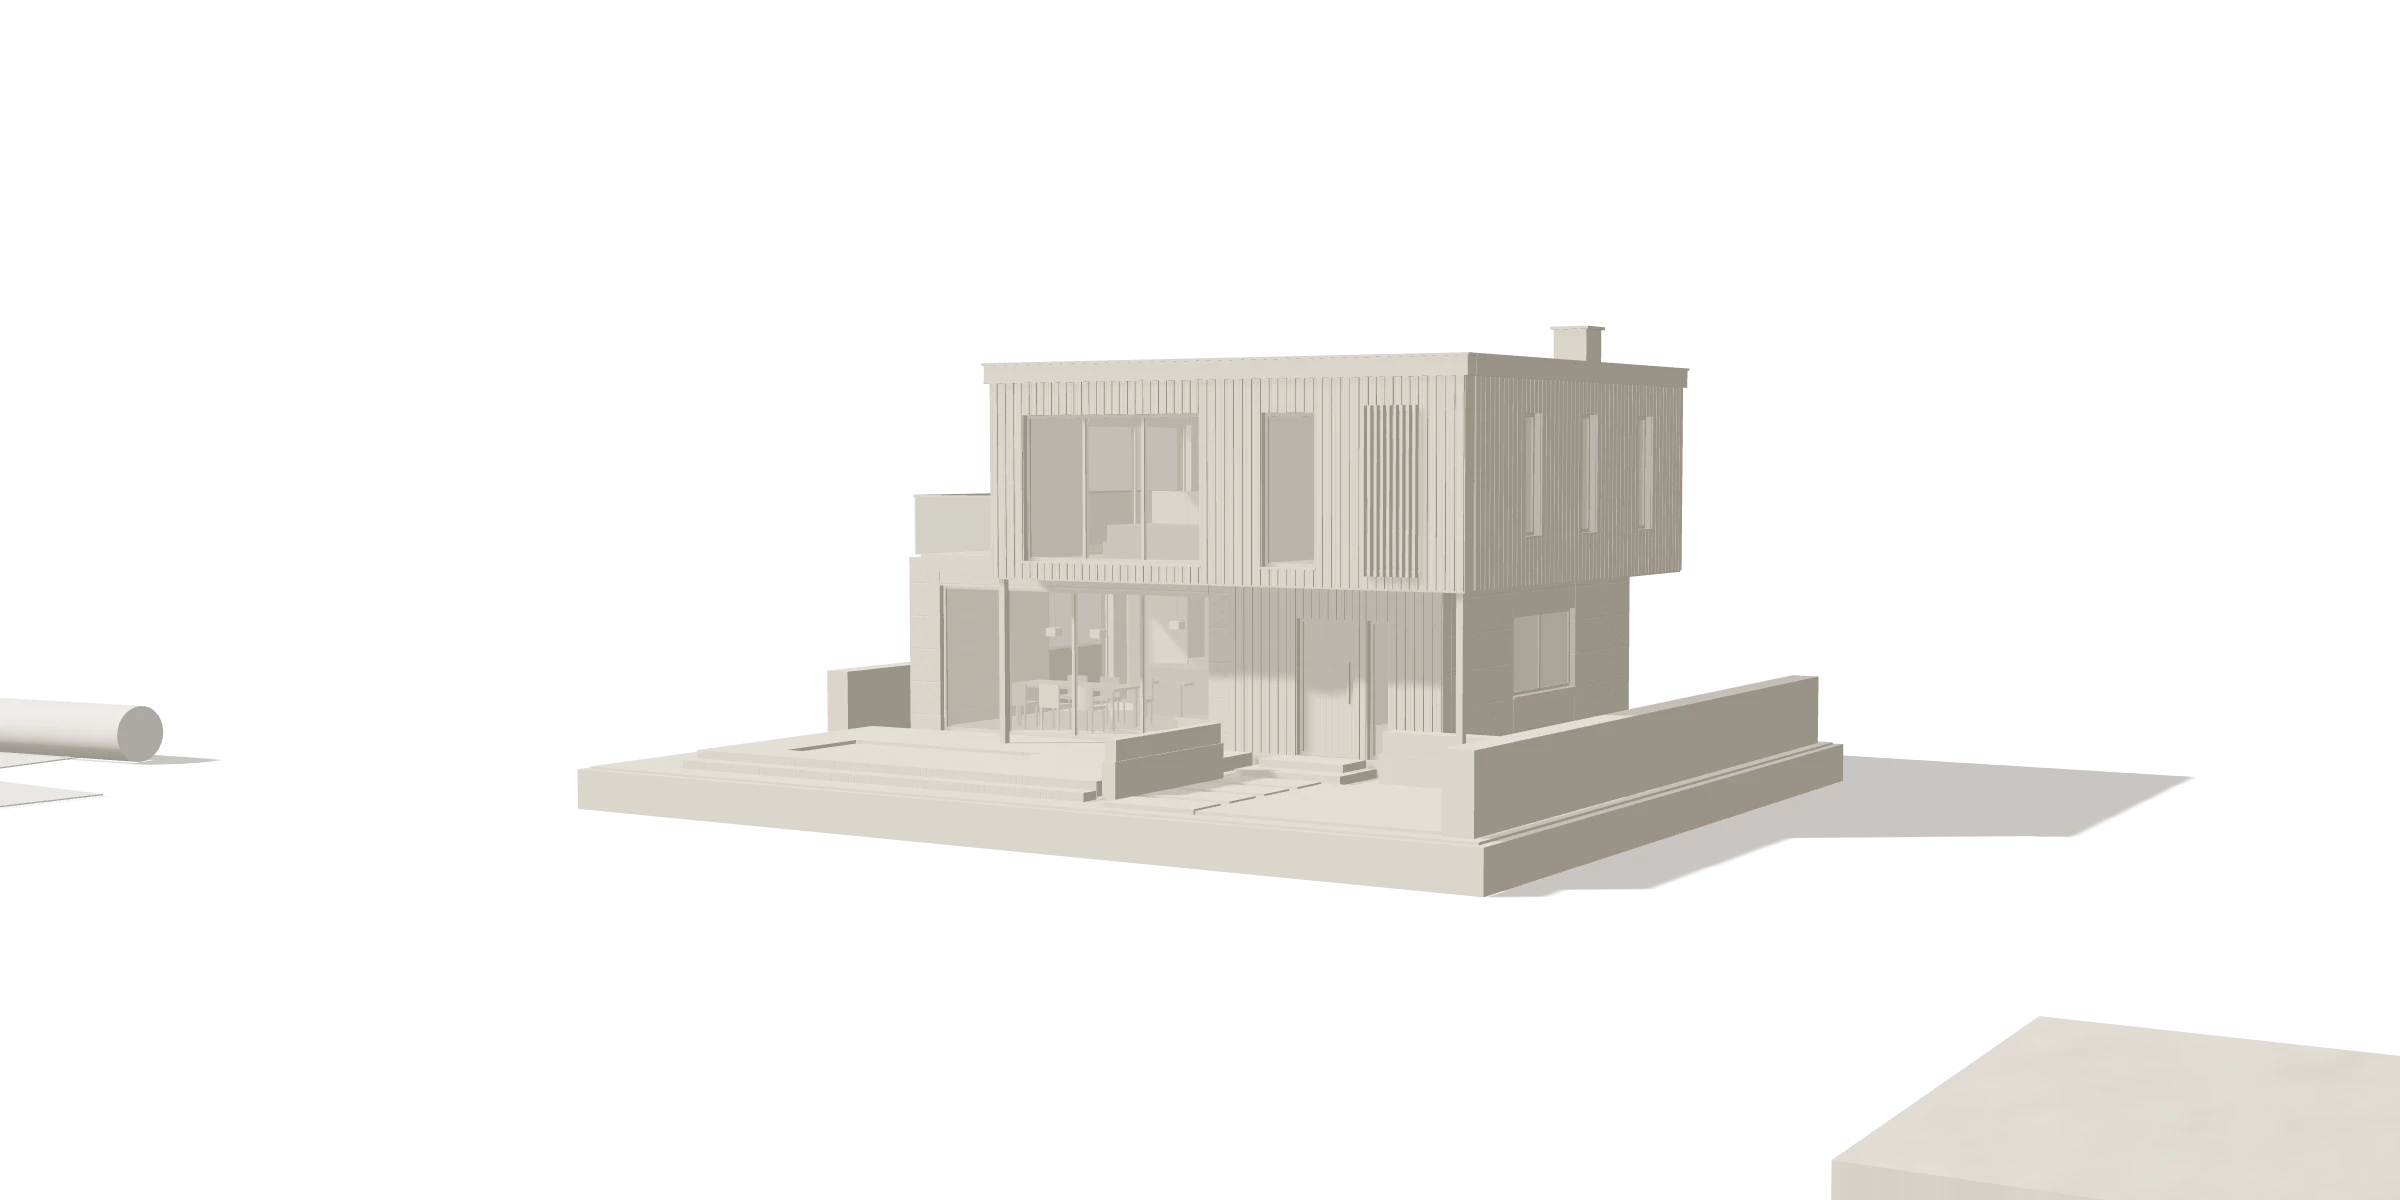
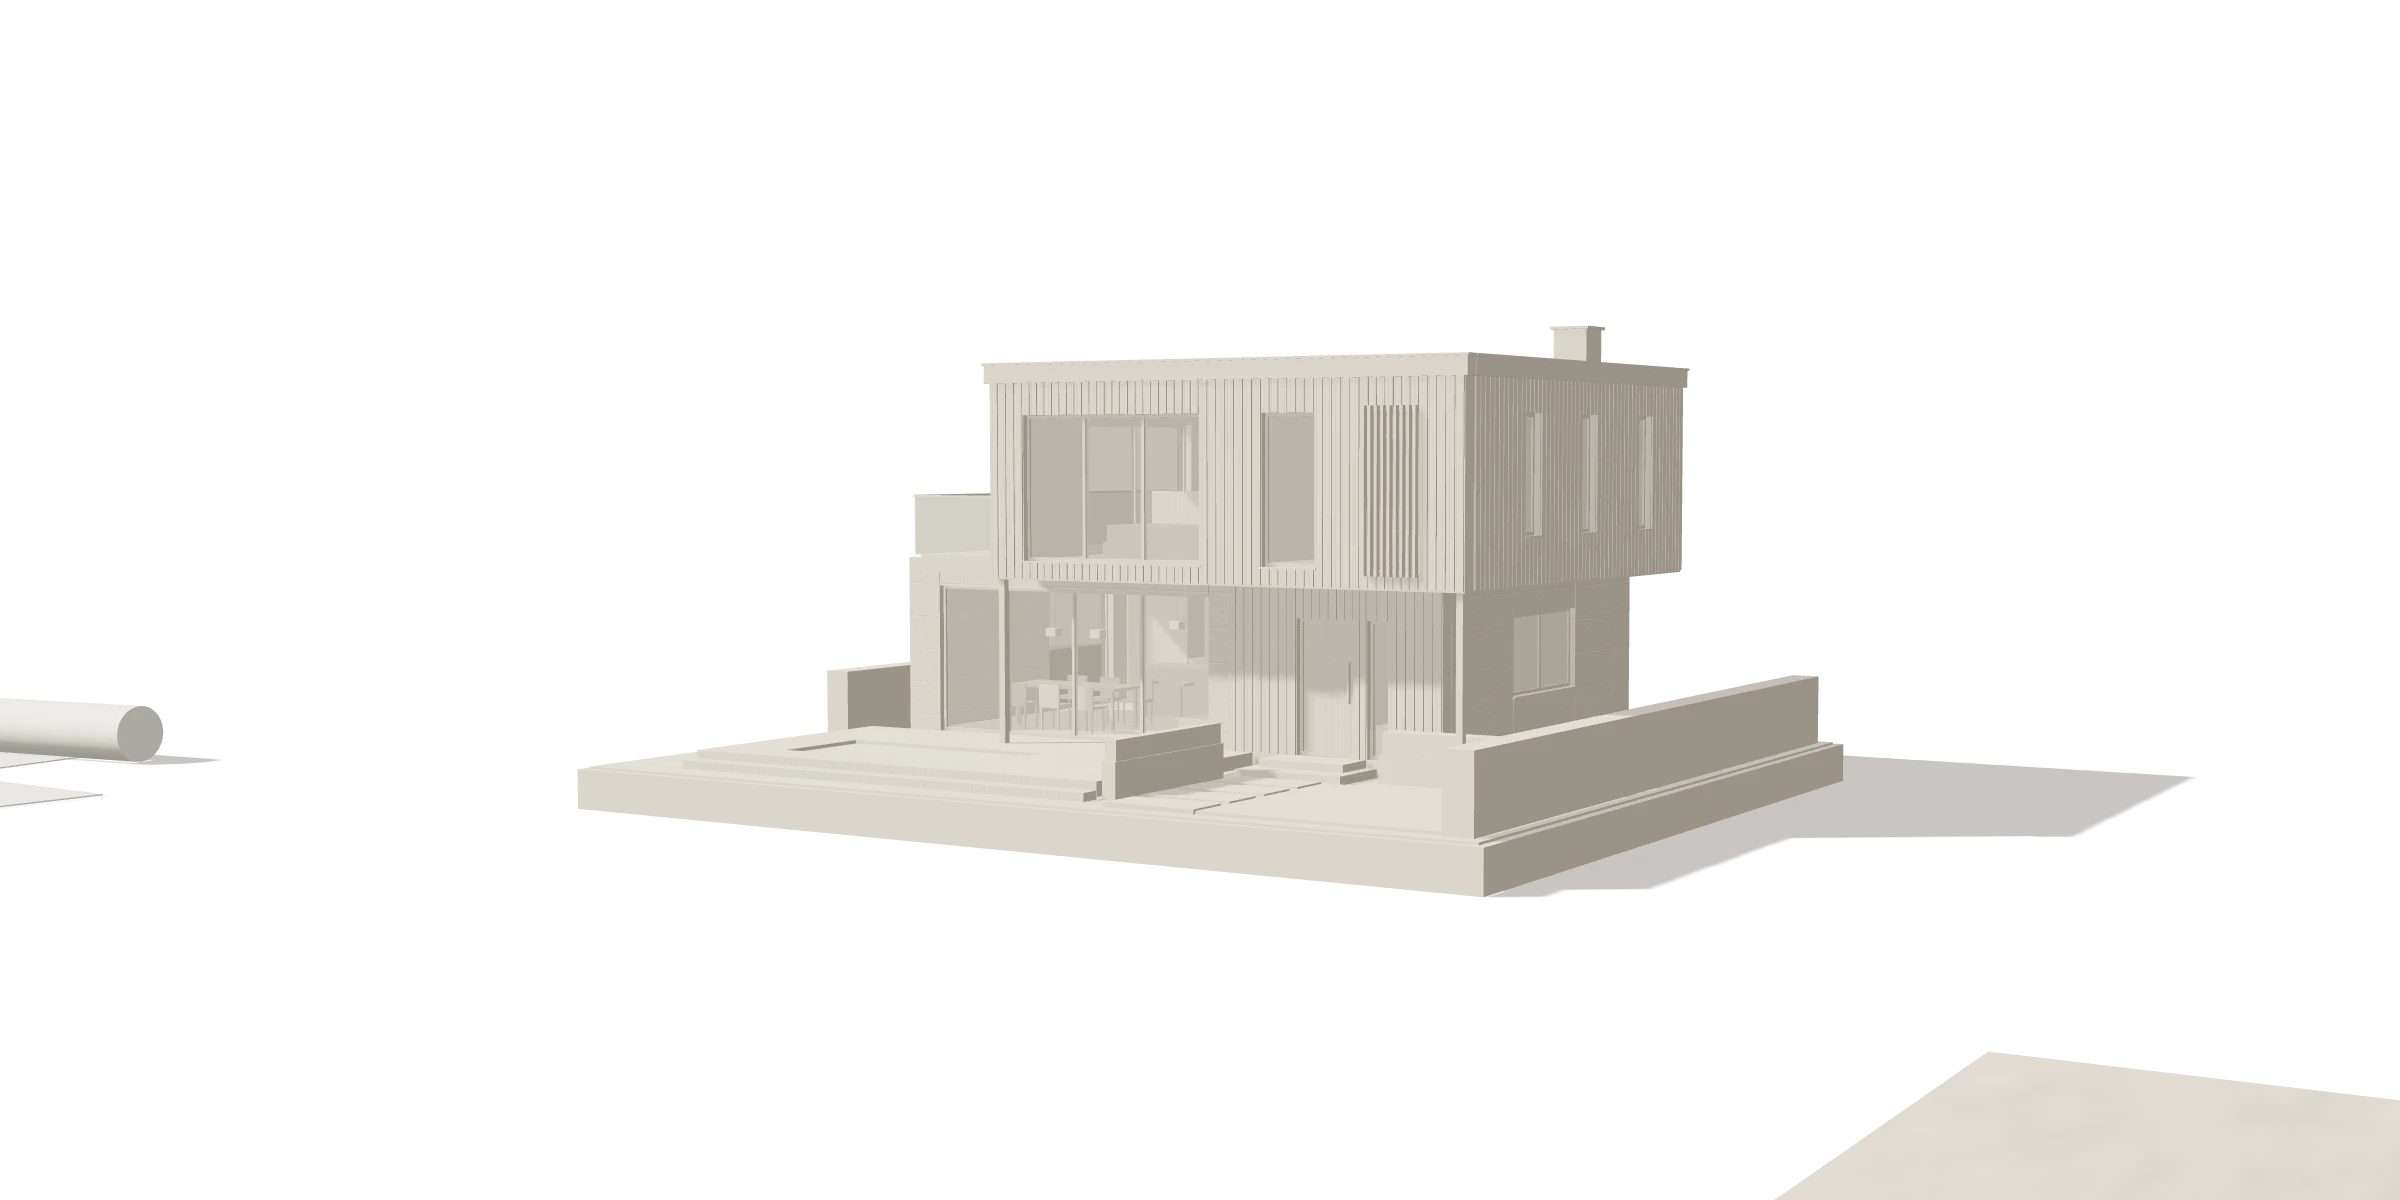
fix(v5): échantillons hors du cadre d'ouverture, images de repli, README
Claude-Session: https://claude.ai/code/session_01Qf6vpkEiqfPwkLY4FHYUhu

Changed region(s): [[0.8125, 0.8325, 1.0, 0.925], [0.7188, 0.9558, 0.7812, 1.0]]

diff --git a/src/components/experience/scene/storyboard.js b/src/components/experience/scene/storyboard.js
@@ -39,8 +39,8 @@ const LANDSCAPE = [
   { at: 0.2, az: -16, el: 48, dist: 43, tx: -24.5, ty: -0.7, tz: 17.5, sx: 0.2, sy: -0.03, draw: 1, explode: 0, wipe: 0, dusk: 0 },
   { at: 0.27, az: -11, el: 45, dist: 42, tx: -24, ty: -0.7, tz: 17.5, sx: 0.2, sy: -0.03, draw: 1, explode: 0, wipe: 0, dusk: 0 },
   // Préparer : elle redescend et rase les échantillons
-  { at: 0.38, az: 34, el: 21, dist: 29, tx: 23.5, ty: -0.2, tz: 20, sx: 0.09, draw: 1, explode: 0, wipe: 0, dusk: 0 },
-  { at: 0.45, az: 27, el: 19, dist: 28, tx: 23.5, ty: -0.2, tz: 20, sx: 0.09, draw: 1, explode: 0, wipe: 0, dusk: 0 },
+  { at: 0.38, az: 34, el: 21, dist: 29, tx: 23.5, ty: -0.2, tz: 21.8, sx: 0.09, draw: 1, explode: 0, wipe: 0, dusk: 0 },
+  { at: 0.45, az: 27, el: 19, dist: 28, tx: 23.5, ty: -0.2, tz: 21.8, sx: 0.09, draw: 1, explode: 0, wipe: 0, dusk: 0 },
   // Rénover : retour à la maquette, qui s'ouvre
   { at: 0.56, az: -36, el: 24, dist: 66, tx: 0, ty: 7.2, tz: 0, sx: 0.1, draw: 1, explode: 1, wipe: 0, dusk: 0 },
   { at: 0.64, az: -30, el: 22, dist: 66, tx: 0, ty: 7.2, tz: 0, sx: 0.1, draw: 1, explode: 1, wipe: 0.12, dusk: 0 },
@@ -58,8 +58,8 @@ const PORTRAIT = [
   { at: 0.07, az: 38, el: 7, dist: 98, tx: 0, ty: 3.6, tz: 0.5, sy: -0.14, draw: 0, explode: 0, wipe: 0, dusk: 0 },
   { at: 0.2, az: -8, el: 58, dist: 84, tx: -26, ty: -0.7, tz: 18.5, sy: -0.15, draw: 1, explode: 0, wipe: 0, dusk: 0 },
   { at: 0.27, az: -4, el: 55, dist: 82, tx: -26, ty: -0.7, tz: 18.5, sy: -0.15, draw: 1, explode: 0, wipe: 0, dusk: 0 },
-  { at: 0.38, az: 30, el: 32, dist: 66, tx: 23.8, ty: -0.2, tz: 20.4, sy: -0.15, draw: 1, explode: 0, wipe: 0, dusk: 0 },
-  { at: 0.45, az: 24, el: 30, dist: 64, tx: 23.8, ty: -0.2, tz: 20.4, sy: -0.15, draw: 1, explode: 0, wipe: 0, dusk: 0 },
+  { at: 0.38, az: 30, el: 32, dist: 66, tx: 23.8, ty: -0.2, tz: 22.2, sy: -0.15, draw: 1, explode: 0, wipe: 0, dusk: 0 },
+  { at: 0.45, az: 24, el: 30, dist: 64, tx: 23.8, ty: -0.2, tz: 22.2, sy: -0.15, draw: 1, explode: 0, wipe: 0, dusk: 0 },
   { at: 0.56, az: -42, el: 22, dist: 104, tx: 0, ty: 7.2, tz: 0, sy: -0.16, draw: 1, explode: 1, wipe: 0, dusk: 0 },
   { at: 0.64, az: -36, el: 20, dist: 104, tx: 0, ty: 7.2, tz: 0, sy: -0.16, draw: 1, explode: 1, wipe: 0.12, dusk: 0 },
   { at: 0.8, az: 30, el: 10, dist: 92, tx: 0, ty: 3.8, tz: 0.5, sy: -0.15, draw: 1, explode: 0, wipe: 1, dusk: 0 },

diff --git a/src/components/experience/scene/atelier.js b/src/components/experience/scene/atelier.js
@@ -414,7 +414,7 @@ export function createAtelier(T, { anisotropy = 4 } = {}) {
 
   /* ---------- Échantillons ---------- */
   /* Disposés en damier devant la maquette, à droite ; `at` décale l'ensemble. */
-  const at = ([x0, x1, z0, z1]) => [x0 + 3.4, x1 + 3.4, z0 + 12.4, z1 + 12.4];
+  const at = ([x0, x1, z0, z1]) => [x0 + 3.4, x1 + 3.4, z0 + 14.2, z1 + 14.2];
   const SAMPLES = [
     // clé, emprise [x0, x1, z0, z1], épaisseur, texture, fenêtre [u0, u1, v0, v1], réglages
     ['pierre', at([14.2, 19.4, 2.4, 8.6]), 0.42, 'stone', [0.28, 0.72, 0.03, 0.22], { roughness: 0.82, bumpMap: 'stoneBump', bumpScale: 1.4 }],
@@ -448,8 +448,8 @@ export function createAtelier(T, { anisotropy = 4 } = {}) {
     anchors[key] = [(x0 + x1) / 2, FLOOR + h, (z0 + z1) / 2];
   }
   // Plaque de laiton brossé : la quincaillerie, et la couleur de la maison.
-  add(new THREE.BoxGeometry(2.6, 0.12, 3.6), brass, 29.3, 0.06, 24.3, -0.12);
-  anchors.laiton = [29.3, FLOOR + 0.12, 24.3];
+  add(new THREE.BoxGeometry(2.6, 0.12, 3.6), brass, 29.3, 0.06, 26.1, -0.12);
+  anchors.laiton = [29.3, FLOOR + 0.12, 26.1];
   anchors.plan = [PLAN.x + 4, FLOOR + 0.05, PLAN.z - 2];
 
   return {

diff --git a/README.md b/README.md
@@ -11,7 +11,7 @@ npm install
 npm run dev        # http://localhost:5173
 npm run build      # vite build + pré-rendu de toutes les routes + sitemap
 npm run preview    # sert dist/ (les fonctions /api ne tournent pas ici)
-npm test           # build + 44 tests de bout en bout (navigateur réel, API simulée)
+npm test           # build + 47 tests de bout en bout (navigateur réel, API simulée)
 npm run posters    # régénère les images de repli de la maquette 3D (avec `npm run dev` lancé)
 ```
 
@@ -114,12 +114,17 @@ l'écran — pas un chantier de Chaudrel.
 | Fichier | Rôle |
 |---|---|
 | `scene/building.js` | la maison, en mètres : murs percés, menuiseries, dalles, intérieur, toiture, extérieurs — répartie en couches (les métiers) |
+| `scene/atelier.js` | ce qui l'entoure sur le plan de travail : plans dessinés d'après les cotes de la maquette, échantillons de matières |
 | `scene/materials.js`, `scene/textures.js` | matériaux PBR, textures procédurales, passage brut → fini dans le shader |
-| `scene/storyboard.js` | **le film** : images-clés caméra / vue éclatée / finition / crépuscule, en paysage et en portrait |
+| `scene/storyboard.js` | **le film**, en six temps (Imaginer → Révéler) : images-clés caméra / tracé / vue éclatée / finition / crépuscule, en paysage et en portrait |
 | `scene/engine.js` | rendu three.js, lumière, une image par changement d'état (pas de boucle permanente) |
-| `ScrollSequence.js` | timeline GSAP ScrollTrigger (scrub) : maquette et textes sur la même horloge |
-| `ArchitecturalExperience.jsx`, `content.js` | balisage, textes, liens vers les métiers |
+| `ScrollSequence.js` | timeline GSAP ScrollTrigger (scrub) : maquette, textes et étiquettes sur la même horloge |
+| `ArchitecturalExperience.jsx`, `content.jsx` | balisage, textes, liens vers les métiers |
 | `src/styles/experience.css` | mise en page statique et « vivante » |
+
+Le design system (couleurs, formes, mouvement, photographie) est décrit dans
+`docs/DESIGN-SYSTEM.md` ; les références de direction artistique et leur état de
+consultation dans `docs/REFERENCES.md`.
 
 Règles tenues :
 
